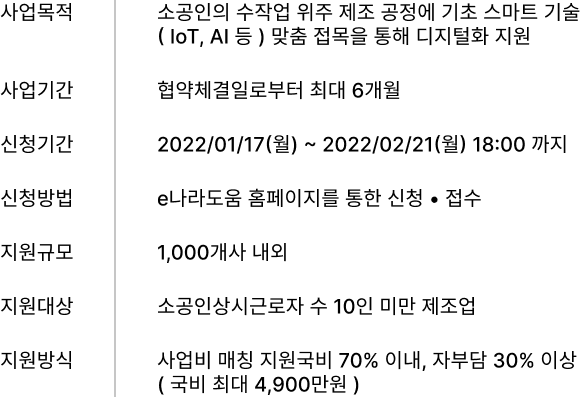
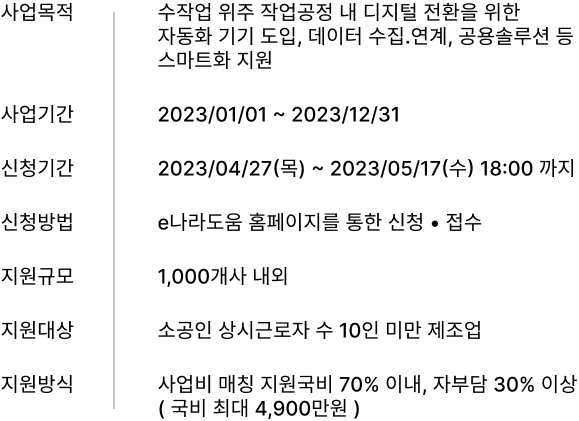
공고 내용 수정

diff --git a/pages/smartFactory.tsx b/pages/smartFactory.tsx
@@ -134,7 +134,9 @@ export default function SmartFactory() {
             <p className='subtitle'>구축실적 및 참고자료</p>
             <div className='contents'>
               <Link href='/vendor/smartStudio' className='smartFactory-btn dklab-smartFactory-btn'>디케이랩 스마트공방 구축 실적 보기</Link>
-              <Link href='#' className='smartFactory-btn'>스마트공방 기술보급 사업 모집 공고</Link>
+              <a href='https://www.gosims.go.kr/hg/hg002/retrieveTaskReqst.do?nttId=202333000000004800028A&menuId=USRM_10309&pageDiv=Search&query=%EC%8A%A4%EB%A7%88%ED%8A%B8%EA%B3%B5%EB%B0%A9&startCount=0&sort=RANK&collection=ALL&range=A&startDate=1970.01.01&endDate=2023.04.28&reQuery=&realQuery=%EC%8A%A4%EB%A7%88%ED%8A%B8%EA%B3%B5%EB%B0%A9&pssrp_sort=RANK&bsns_sort=BSNS_SE/ASC,RANK&faq_sort=RANK&menual_sort=RANK&etc_sort=RANK&tarAll=&tarTitle=&tarContents=&registDdCnFo=1970.01.01&registDdCnTo=2023.04.28&pssrpBegin=&pssrpEnd=&pssrpInsttCd=&pssrpTerm=&backBtnText=%EC%9D%B4%EC%A0%84%EC%9C%BC%EB%A1%9C&backBtnFnc=f_go_seachWise' className='smartFactory-btn' target='_blank'>
+                스마트공방 기술보급 사업 모집 공고
+              </a>
             </div>
           </section>
           <section>
